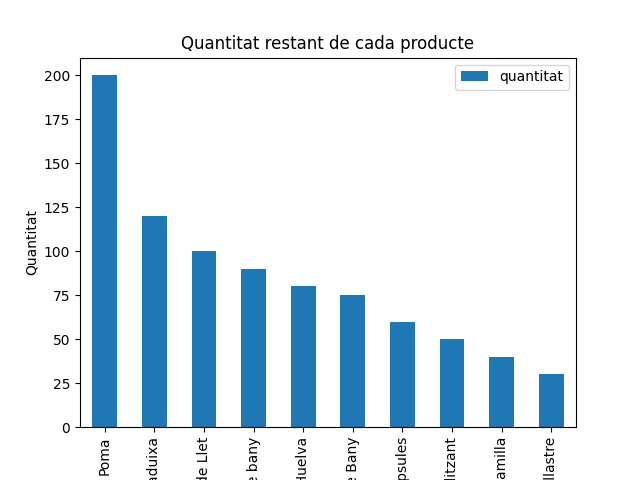
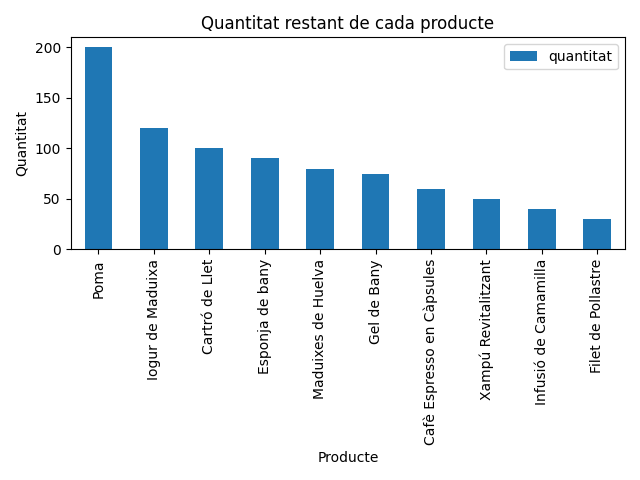
tot funciona

diff --git a/server/stats.py b/server/stats.py
@@ -17,7 +17,6 @@ def tancarBD(connection):
     cursor.close()
     connection.close()
 
-
 def quantitatProductes():
     connection=connectarBD()
     cursor = connection.cursor()
@@ -34,9 +33,10 @@ def quantitatProductes():
     df.plot(x='nom', y='quantitat', kind='bar')
 
     plt.title('Quantitat restant de cada producte')
-    plt.xlabel('Producte', fontsize=14)
+    plt.xlabel('Producte')
     plt.ylabel('Quantitat')
 
+    plt.tight_layout()
     plt.savefig('./grafics/quantitat.png')
     plt.close()
 
@@ -44,7 +44,7 @@ def productesVenuts():
     connection=connectarBD()
     cursor = connection.cursor()
     query = """
-    SELECT SUM(c.quantitatCom) AS total_quantitatCom, p.nom
+    SELECT SUM(c.quantitatCom) AS productesVenuts, p.nom
     FROM linia_comanda c
     INNER JOIN productes p ON c.id_producto = p.id
     GROUP BY c.id_producto, p.nom;
@@ -55,14 +55,15 @@ def productesVenuts():
 
     tancarBD(connection)
 
-    df = pd.DataFrame(resultat, columns=['total_quantitatCom','nom'])
+    df = pd.DataFrame(resultat, columns=['productesVenuts','nom'])
 
-    df.plot(x='nom', y='total_quantitatCom', kind='bar')
+    df.plot(x='nom', y='productesVenuts', kind='bar')
 
     plt.title('Productes més venuts')
     plt.xlabel('Producte')
     plt.ylabel('Quantitat')
 
+    plt.tight_layout()
     plt.savefig('./grafics/venuts.png')
     plt.close()
 
@@ -70,7 +71,7 @@ def diesMesActivitat():
     connection=connectarBD()
     cursor = connection.cursor()
     query = """
-    SELECT fechaComanda, SUM(1) AS suma_resultados
+    SELECT DATE_FORMAT(fechaComanda, '%d-%m-%Y') AS fecha_formateada, SUM(1) AS comandesTotals
     FROM comanda
     GROUP BY fechaComanda
     ORDER BY fechaComanda;
@@ -80,14 +81,17 @@ def diesMesActivitat():
 
     tancarBD(connection)
 
-    df = pd.DataFrame(resultat, columns=['suma_resultados','fechaComanda'])
-    print(resultat)
-    df.plot(x='fechaComanda', y='suma_resultados', kind='bar')
+    resultat = [(int(row[1]), row[0]) for row in resultat]
+
+    df = pd.DataFrame(resultat, columns=['comandesTotals','fecha_formateada'])
+
+    df.plot(x='fecha_formateada', y='comandesTotals', kind='bar')
 
     plt.title('Dies de més activitat')
     plt.xlabel('Data')
     plt.ylabel('Número de comandes')
 
+    plt.tight_layout()
     plt.savefig('./grafics/activitatData.png')
     plt.close()
 
@@ -113,6 +117,7 @@ def usuarisMesActivitat():
     plt.xlabel('ID usuari')
     plt.ylabel('Número de comandes')
 
+    plt.tight_layout()
     plt.savefig('./grafics/activitatUsuari.png')
     plt.close()     
 
@@ -120,7 +125,7 @@ def preuMitjaPerDia():
     connection=connectarBD()
     cursor = connection.cursor()
     query = """
-    SELECT fechaComanda, AVG(preuTotal) AS preuMitja
+    SELECT DATE_FORMAT(fechaComanda, '%d-%m-%Y') AS fecha_formateada, AVG(preuTotal) AS preuMitja
     FROM comanda
     GROUP BY fechaComanda
     ORDER BY fechaComanda;
@@ -130,16 +135,18 @@ def preuMitjaPerDia():
 
     tancarBD(connection)
 
-    df = pd.DataFrame(resultat, columns=['fechaComanda','preuMitja'])
+    df = pd.DataFrame(resultat, columns=['fecha_formateada','preuMitja'])
 
-    df.plot(x='fechaComanda', y='preuMitja', kind='bar')
+    df.plot(x='fecha_formateada', y='preuMitja', kind='bar')
 
     plt.title('Preu mitjà de les comandes segons el dia')
     plt.xlabel('Data')
     plt.ylabel('Preu mitjà de les comandes')
 
+    plt.tight_layout()
     plt.savefig('./grafics/preuMitjaPerDia.png')
     plt.close()
+
 
 
 quantitatProductes()
